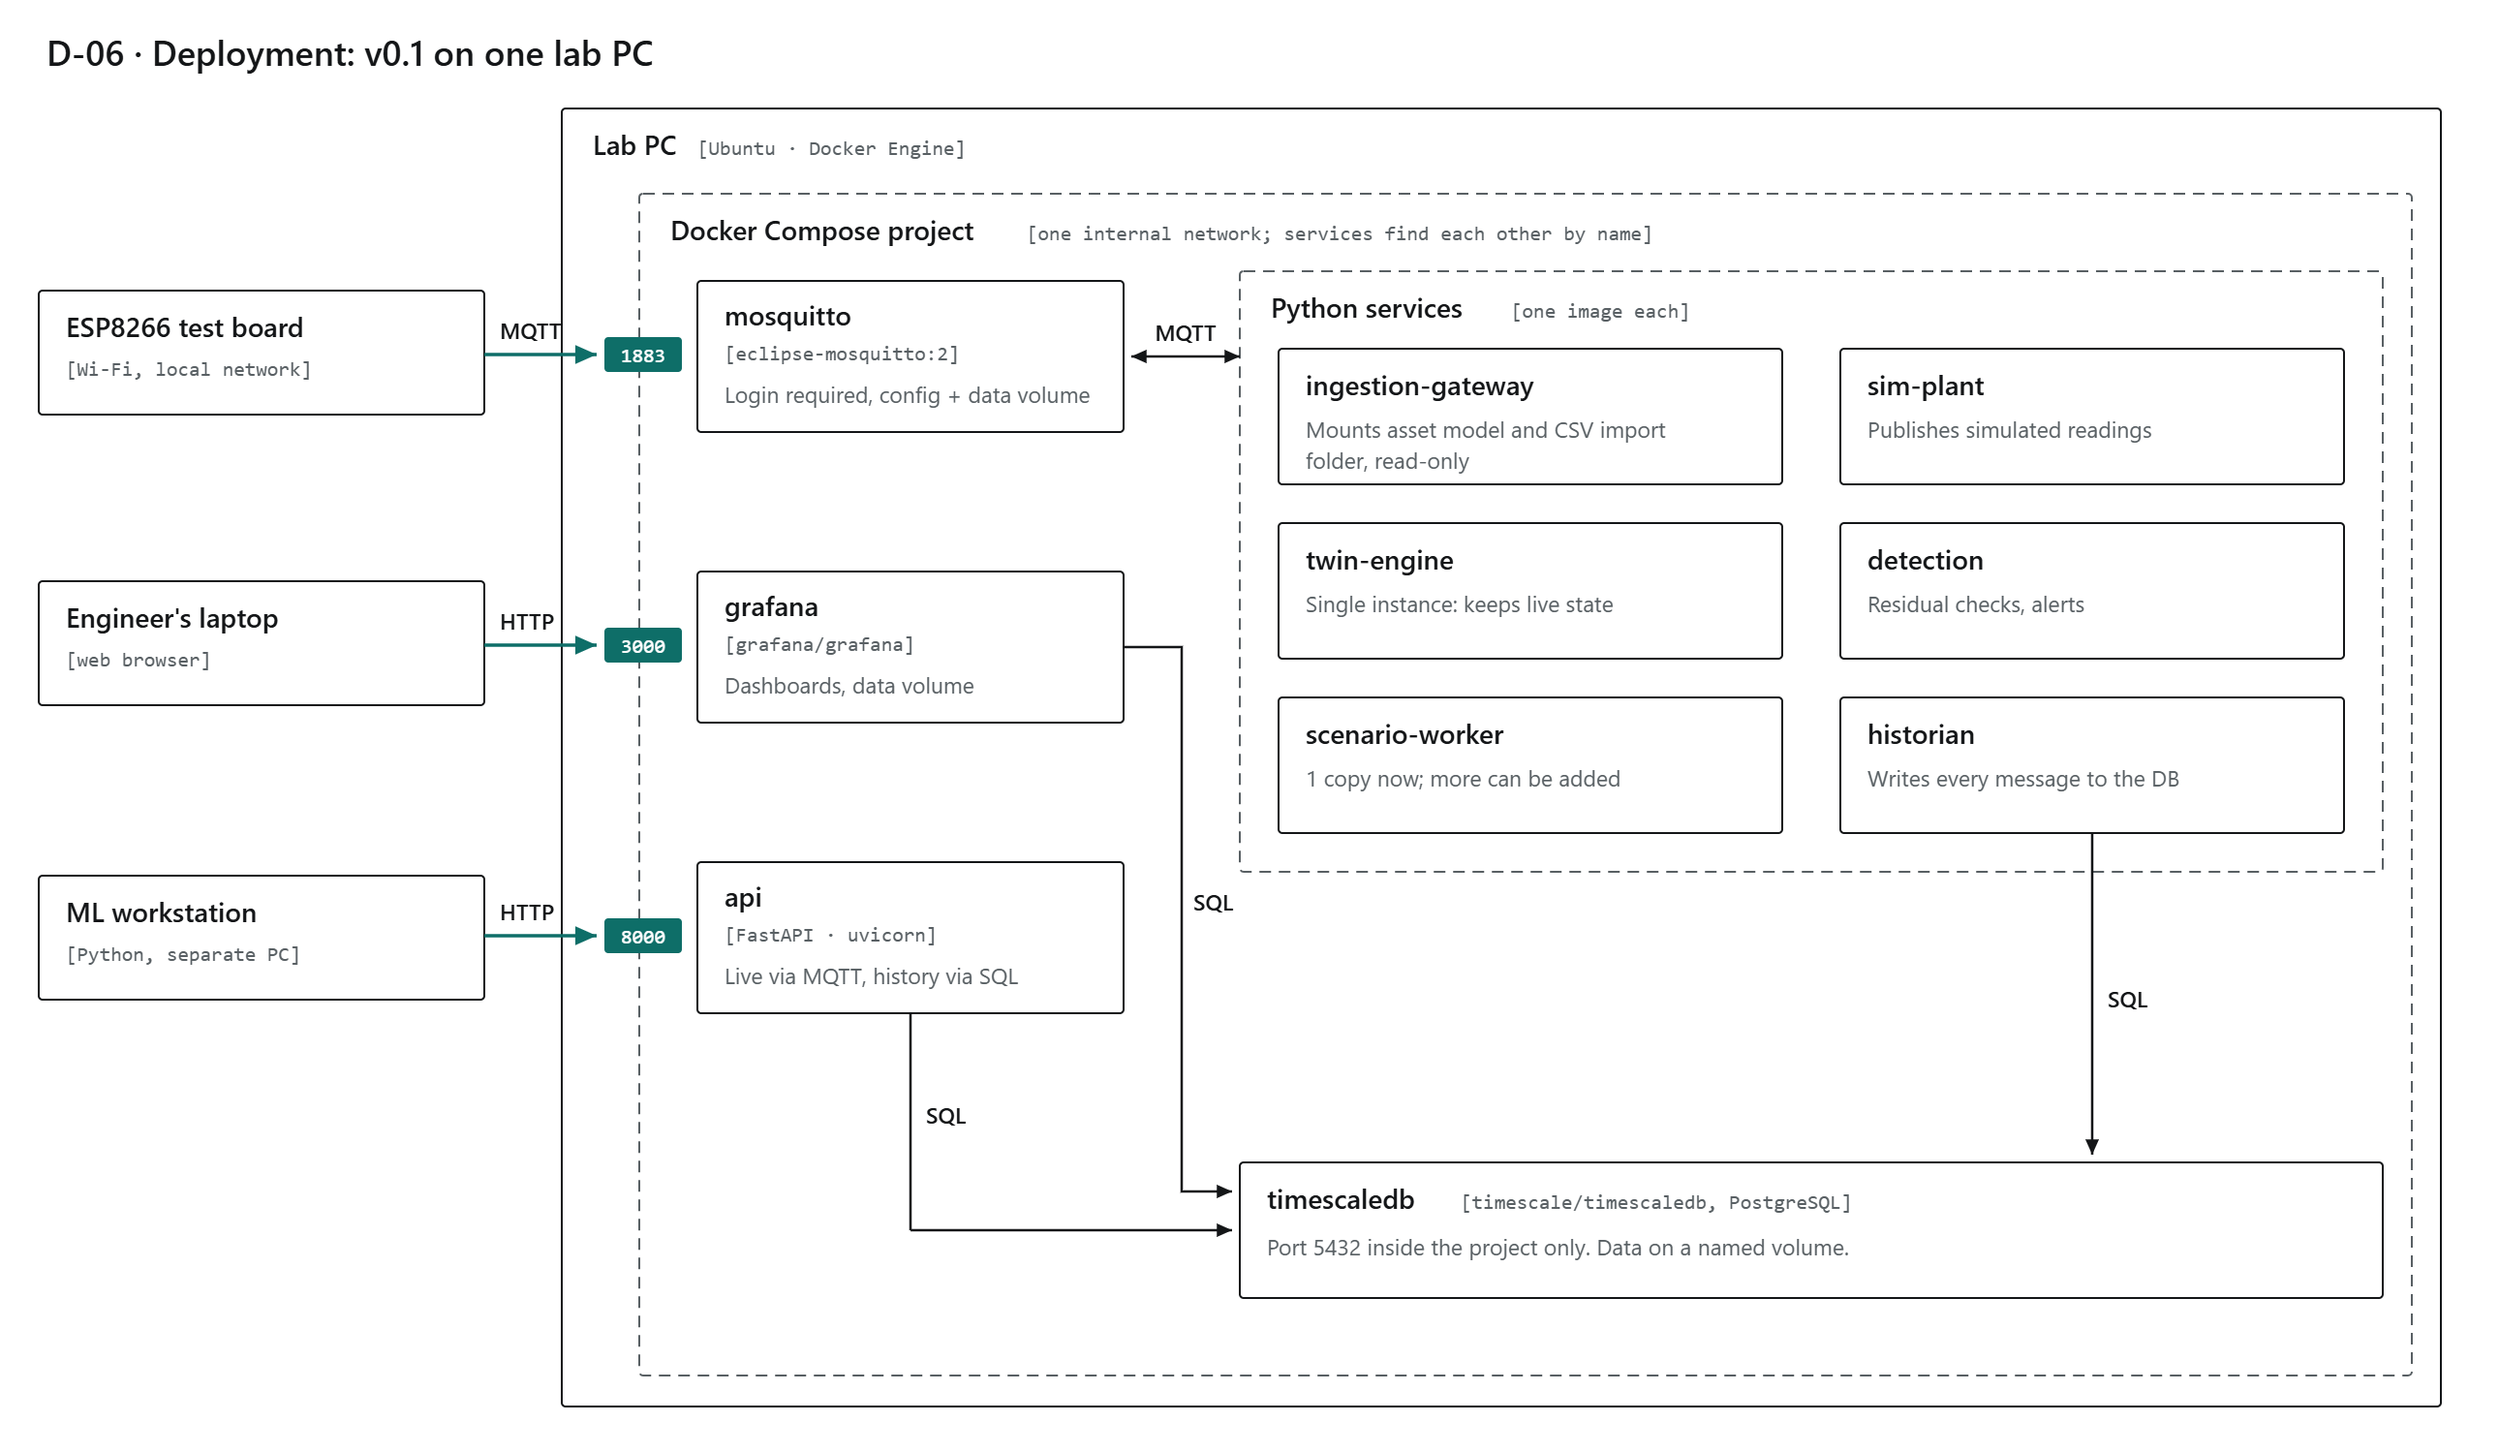
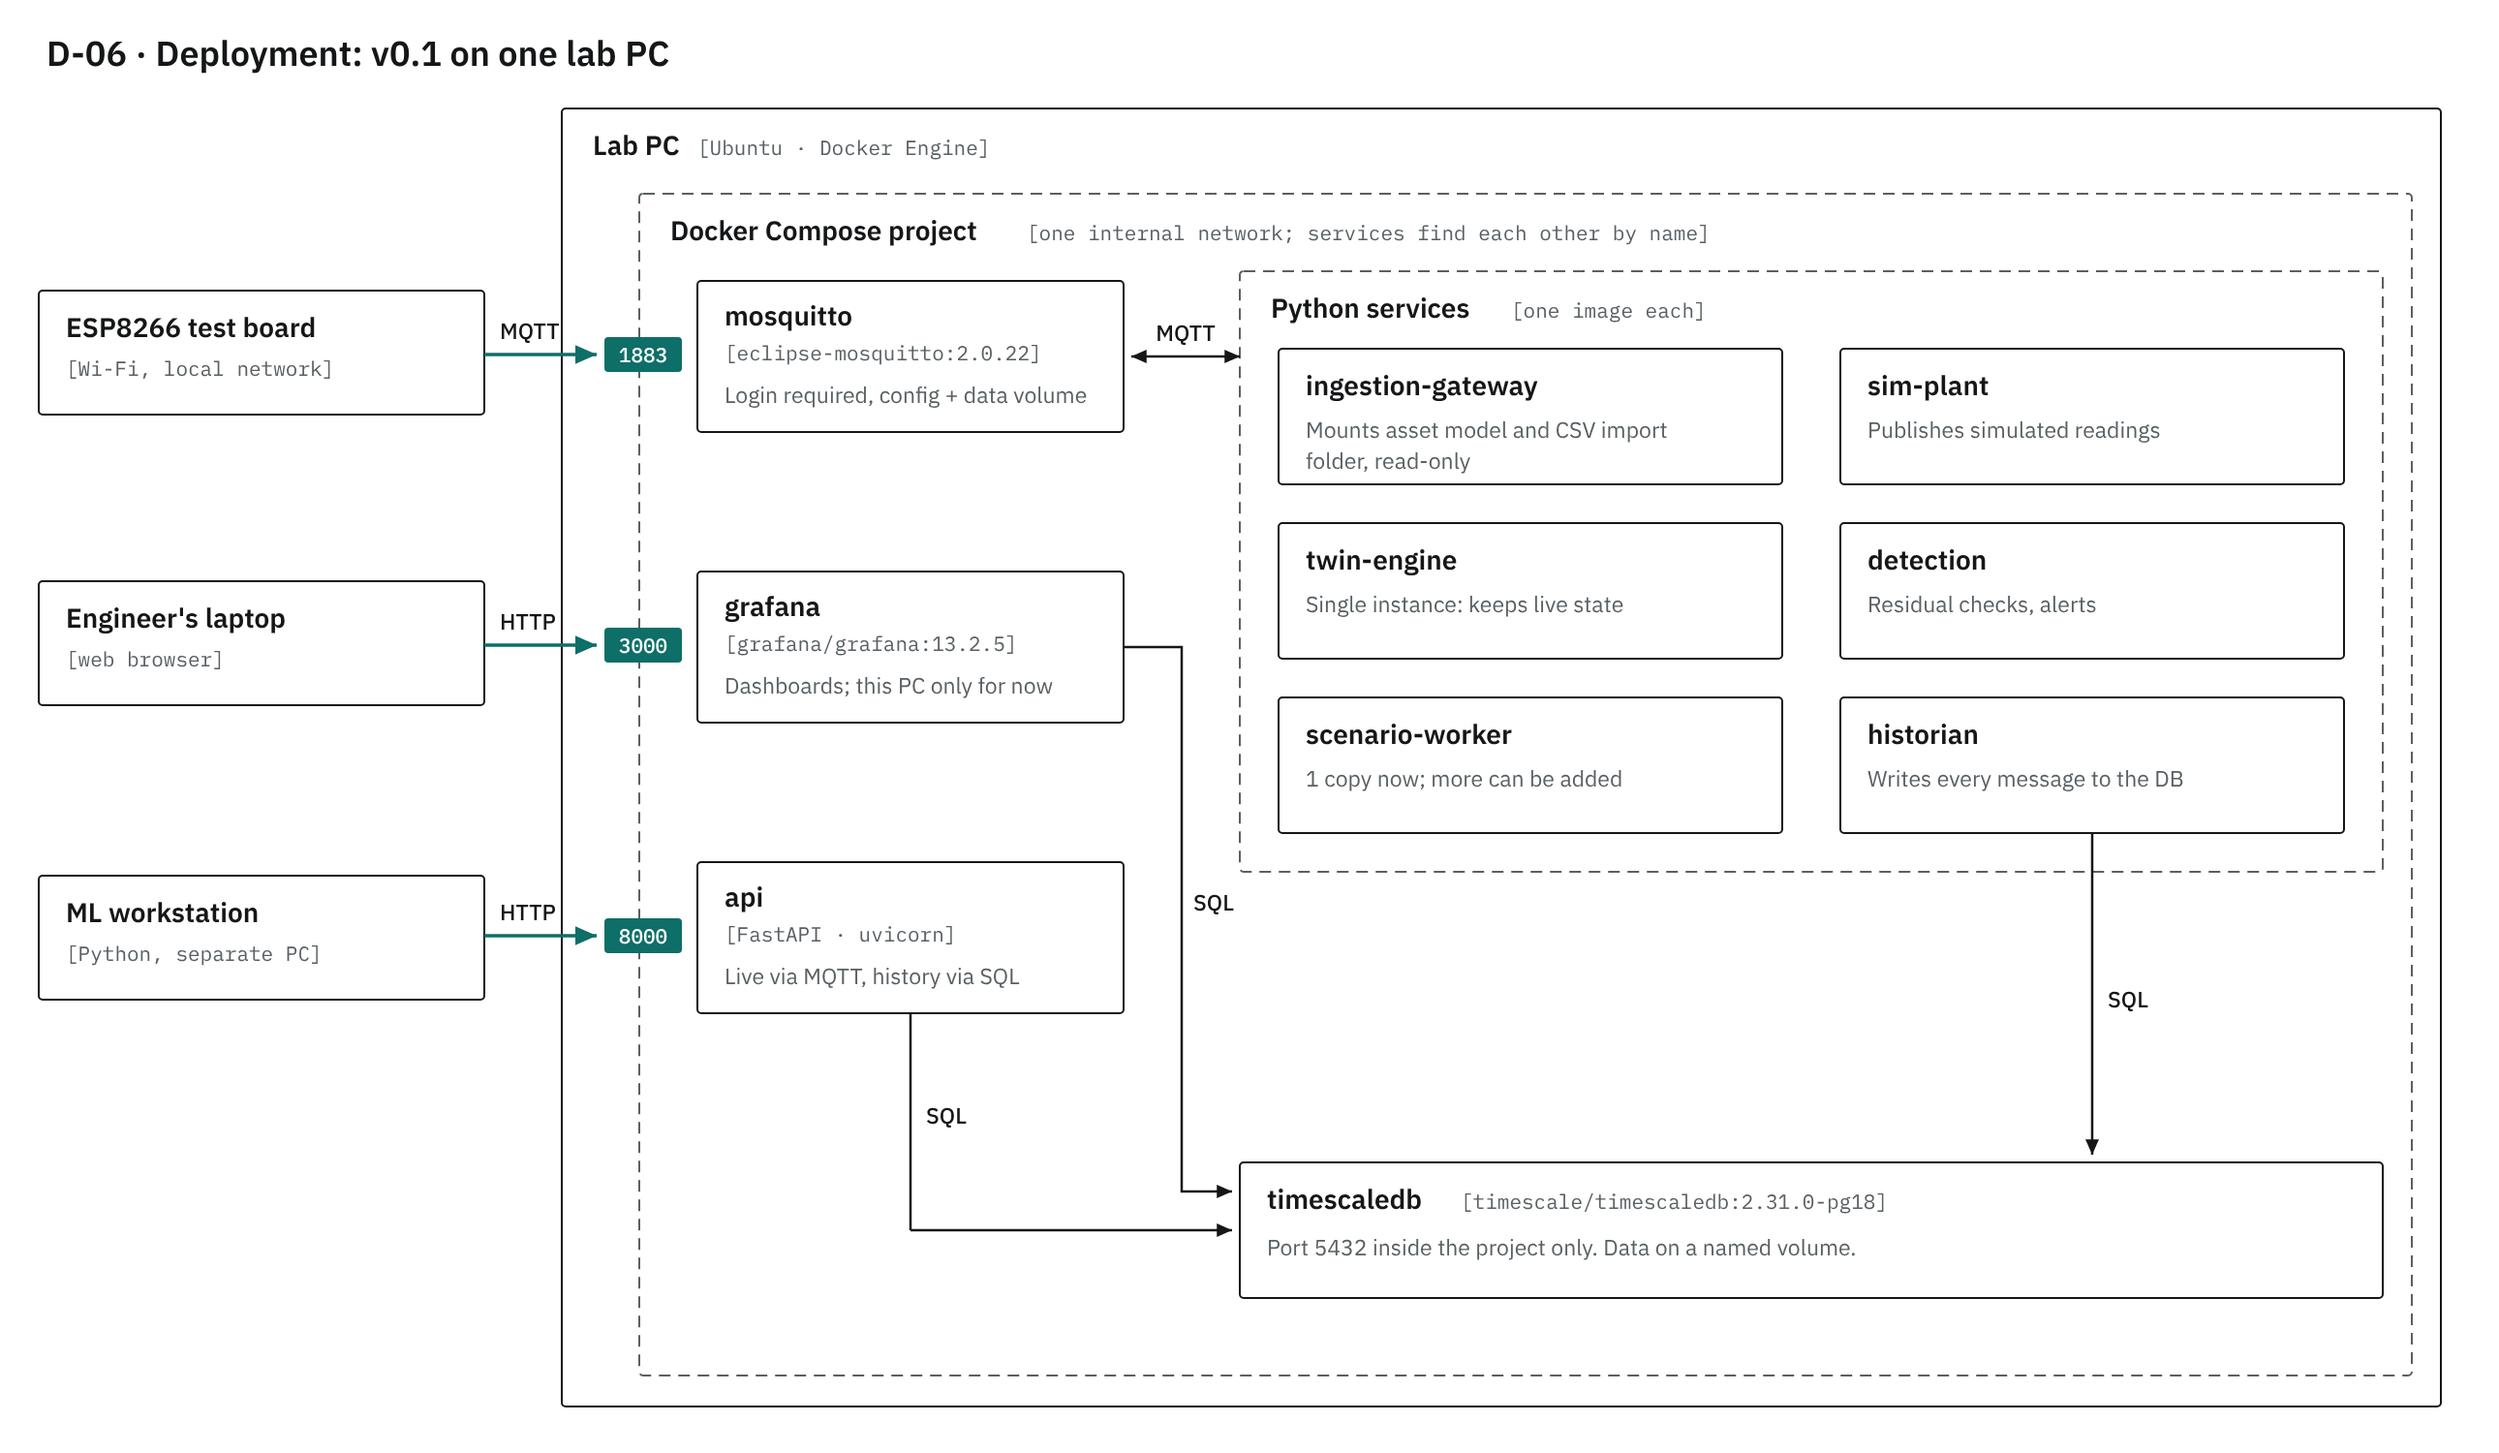
update definitions and steps

diff --git a/v0.1/README.md b/v0.1/README.md
@@ -1,6 +1,6 @@
 # DT-TEO v0.1: Digital Twin Foundation
 
-**Status:** proposal and prototyping · **Last updated:** 28 October 2026
+**Status:** proposal and prototyping · **Last updated:** 31 October 2026
 
 **New here?** Start with [`GUIDE.md`](GUIDE.md): a short guide to what is built so far and how to use it. This README is the full design.
 
@@ -314,9 +314,9 @@ A useful lesson from the literature: a [2026 review of operational twins](https:
 
 This shows how v0.1 runs on **one lab PC** using Docker Compose. Docker Compose starts several containers together from one file. It is drawn as a [C4 deployment diagram](https://c4model.com/diagrams/deployment): machines and runtime environments are nested boxes, with the services inside them.
 
-- **Only three ports are open to the outside** (highlighted): MQTT `1883` for devices, Grafana `3000` for the engineer and the API `8000` for the ML workstation.
+- **Only three ports are open to the outside** (highlighted): MQTT `1883` for devices, Grafana `3000` for the engineer and the API `8000` for the ML workstation (not built yet). For now Grafana is reachable from the lab PC only (`127.0.0.1:3000`), until logins are in place.
 - **The database is not exposed.** It uses port `5432` *inside* the project only. Inside Compose, services find each other by name, e.g. `timescaledb:5432` ([Docker Compose networking](https://docs.docker.com/compose/how-tos/networking/)).
-- **The broker requires a login.** Since Mosquitto 2.0, a broker that accepts connections from other machines refuses anonymous clients by default ([Mosquitto 2.0 migration notes](https://mosquitto.org/documentation/migrating-to-2-0/)), so the ESP8266 needs a username and password.
+- **The broker requires a login** (being added now; anonymous access was allowed while building the pipeline). Since Mosquitto 2.0, a broker that accepts connections from other machines refuses anonymous clients by default ([Mosquitto 2.0 migration notes](https://mosquitto.org/documentation/migrating-to-2-0/)), so the ESP8266 needs a username and password.
 - **Scaling:** the scenario worker can have extra copies added. The twin engine stays as one instance because it holds live state in memory.
 
 ### Storage: decided
@@ -380,7 +380,6 @@ These are deliberately **not** in v0.1:
 
 - What controller or interface will Botanic's own unit expose (Modbus, BACnet, proprietary)? This decides which adapter matters most.
 - What are the real unit's inputs, outputs and modes? These will replace the placeholder in `dtteo_asset_model.ttl` and the simulated plant.
-- Database layout (ADR-002): confirm the proposal before the historian is built.
 - Should ESP8266 firmware be written in ESPHome (simpler) or Arduino (more control over messages)?
 - When should the command path design (D-08) start?
 

diff --git a/v0.1/services/ingestion-gateway/NOTES.md b/v0.1/services/ingestion-gateway/NOTES.md
@@ -916,3 +916,19 @@ Every other point ID is `<equipment>.<point>`. This one used the site, so its to
 ### Next: stage 3, storage
 
 The database layout is proposed in `decisions/ADR-002-database-layout.md`. Build starts once it's agreed.
+
+---
+
+## 2026-10-31 · Step 2l: known optional fields are counted, not quarantined
+
+Acme sends humidity (`rh`) every 3 s. Its device type marks it optional and the asset model has no humidity point, so every message put one row in quarantine: noise that buried real problems, and at that rate about 29,000 rows a day.
+
+Now a field that is **optional in its device type, has no point, and comes from an enabled device** is skipped and counted (`Pipeline.take_skipped()`); `service.py` logs the counts once a minute:
+
+```
+optional_fields_skipped last=60s counts={"acme/acme_hvac_0001/rh": 31} why="optional in the device type, no point in the asset model"
+```
+
+Unknown fields, unbound devices and disabled devices still go to quarantine. Add the point to the asset model and the field is mapped on the next start. Pattern: EIP Message Filter ("If the message content does not match the criteria, the message is discarded", https://www.enterpriseintegrationpatterns.com/Filter.html).
+
+Checked: 120 tests pass; live (broker + gateway + Acme, 66 s): 66 readings, 0 quarantine messages, one count line.

diff --git a/v0.1/storage/NOTES.md b/v0.1/storage/NOTES.md
@@ -101,3 +101,11 @@ BAD readings are left out of all of them. Readings older than 7 days that arrive
 On PostgreSQL 16: the views apply and roll back; a meter going 100.0 → 101.0, then reset to 0.2 → 0.7, gives **1.0 kWh** then **0.7 kWh** per hour; mode spans are right; BAD readings are left out; every dashboard query (except the hourly mean, which needs TimescaleDB) runs as the `grafana` login.
 
 **Still to check on your PC** (TimescaleDB and Grafana images couldn't be pulled in the build environment): the continuous-aggregate migration, and that Grafana loads the dashboard.
+
+---
+
+## 2026-10-31 · Quick fixes after the first full run
+
+- **Dashboard:** "Readings by quality" shows GOOD / SUSPECT / BAD as three labelled numbers (Grafana's default colour rule had turned any count over 80 red). "Hourly mean" includes any hourly bucket that overlaps the time range (buckets are stamped at the start of the hour). Mode colours: heat orange, cool blue, off grey.
+- **Smoke test:** `python tools\smoke_test.py` (from `v0.1`, stack running) checks migrations, the reading path, the quarantine path, the summaries and Grafana, then deletes its test rows. First run on the lab PC, 31 Oct 2026: all 6 checks passed.
+- Grafana is pinned to 13.2.5 (changed from 13.2.6 on the lab PC).
